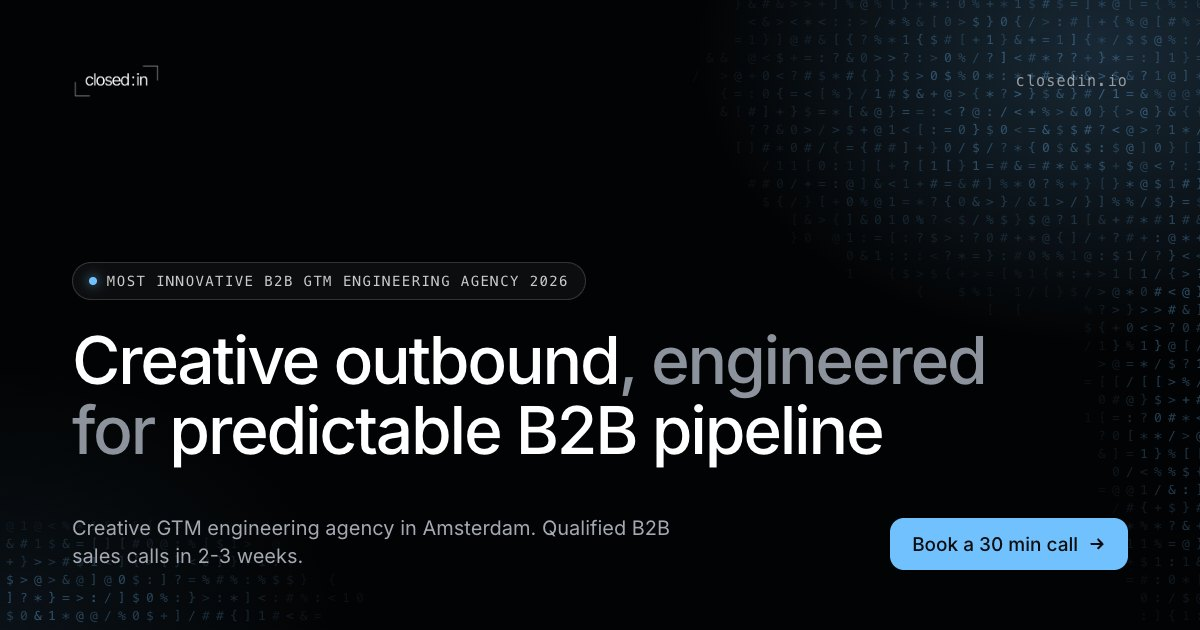
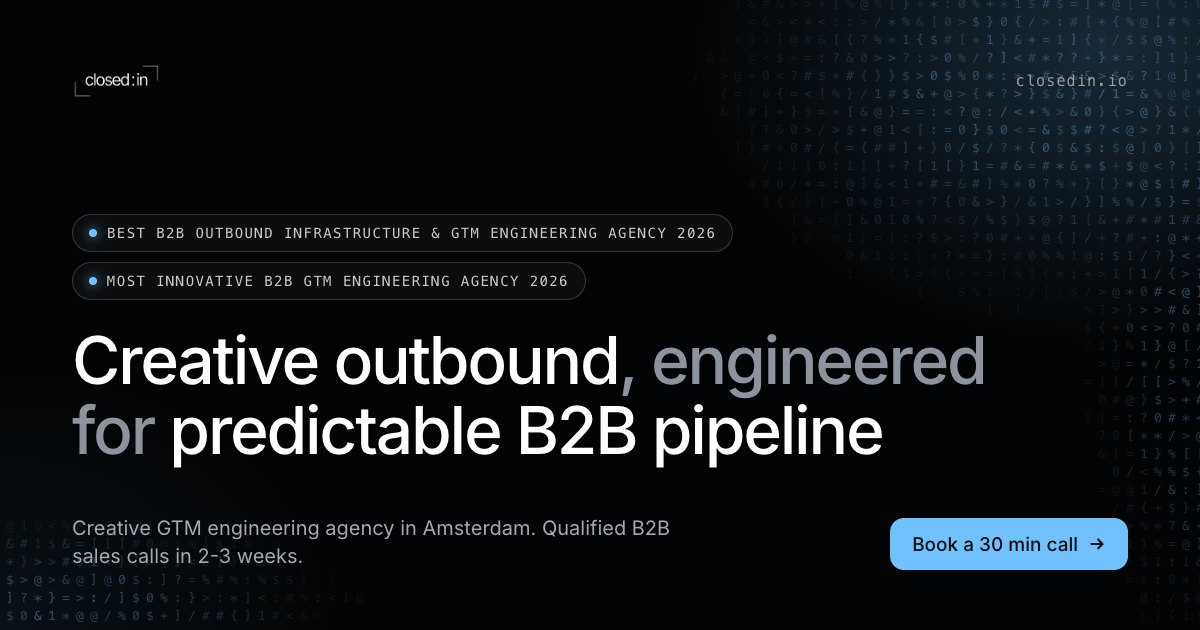
FDI Insider award in the meta description, share image and agencies post (#14)
- Homepage meta description and og:description now lead with the FDI Insider title
  (Best B2B Outbound Infrastructure & GTM Engineering Agency 2026): it carries the
  "B2B outbound" and "GTM engineering" search terms. 157 characters.
- Homepage share image: two award pills, FDI on top, like the hero.
  og.html takes an optional second eyebrow (eyebrow2).
- Agencies post (best GTM engineering agencies NL): an Awards line in the closed:in
  profile, both awards linked to the issuer pages; dateModified 2026-11-10.
- sitemap.xml rebuilt (lastmod from git after the footer change in #13).

Changed region(s): [[0.0617, 0.3317, 0.6167, 0.3921]]

diff --git a/case-study-showcase/blog/best-gtm-engineering-agencies-netherlands.html b/case-study-showcase/blog/best-gtm-engineering-agencies-netherlands.html
@@ -28,7 +28,7 @@
     <meta name="twitter:card" content="summary_large_image">
     <meta name="twitter:image" content="https://www.closedin.io/assets/img/og/blog-best-gtm-engineering-agencies-netherlands-v1.jpg">
     <script type="application/ld+json">
-    {"@context": "https://schema.org", "@graph": [{"@type": "Article", "headline": "Best GTM engineering agencies in the Netherlands and Benelux (2026)", "description": "Ten GTM engineering, outbound and demand agencies in the Netherlands and Belgium compared on location, Clay partner status, stack, published pricing and who they fit. Written by an Amsterdam agency, with the criteria out in the open.", "image": "https://www.closedin.io/assets/img/og/blog-best-gtm-engineering-agencies-netherlands-v1.jpg", "datePublished": "2026-11-09", "dateModified": "2026-11-09", "inLanguage": "en", "author": {"@type": "Person", "name": "Max Münstermann", "jobTitle": "Founder & Sales Lead", "url": "https://www.closedin.io/team", "sameAs": ["https://www.linkedin.com/in/maxmunstermann"]}, "publisher": {"@type": "Organization", "name": "closed:in", "logo": {"@type": "ImageObject", "url": "https://www.closedin.io/closedin-logo.png"}}, "mainEntityOfPage": "https://www.closedin.io/blog/best-gtm-engineering-agencies-netherlands", "keywords": "gtm engineering agency netherlands, gtm engineering agency amsterdam, clay agency netherlands, outbound agency benelux, best gtm agencies netherlands 2026", "articleSection": "GTM engineering", "wordCount": 4738}, {"@type": "BreadcrumbList", "itemListElement": [{"@type": "ListItem", "position": 1, "name": "Home", "item": "https://www.closedin.io/"}, {"@type": "ListItem", "position": 2, "name": "Blog", "item": "https://www.closedin.io/blog"}, {"@type": "ListItem", "position": 3, "name": "Best GTM engineering agencies in the Netherlands and Benelux (2026)", "item": "https://www.closedin.io/blog/best-gtm-engineering-agencies-netherlands"}]}]}
+    {"@context": "https://schema.org", "@graph": [{"@type": "Article", "headline": "Best GTM engineering agencies in the Netherlands and Benelux (2026)", "description": "Ten GTM engineering, outbound and demand agencies in the Netherlands and Belgium compared on location, Clay partner status, stack, published pricing and who they fit. Written by an Amsterdam agency, with the criteria out in the open.", "image": "https://www.closedin.io/assets/img/og/blog-best-gtm-engineering-agencies-netherlands-v1.jpg", "datePublished": "2026-11-09", "dateModified": "2026-11-10", "inLanguage": "en", "author": {"@type": "Person", "name": "Max Münstermann", "jobTitle": "Founder & Sales Lead", "url": "https://www.closedin.io/team", "sameAs": ["https://www.linkedin.com/in/maxmunstermann"]}, "publisher": {"@type": "Organization", "name": "closed:in", "logo": {"@type": "ImageObject", "url": "https://www.closedin.io/closedin-logo.png"}}, "mainEntityOfPage": "https://www.closedin.io/blog/best-gtm-engineering-agencies-netherlands", "keywords": "gtm engineering agency netherlands, gtm engineering agency amsterdam, clay agency netherlands, outbound agency benelux, best gtm agencies netherlands 2026", "articleSection": "GTM engineering", "wordCount": 4738}, {"@type": "BreadcrumbList", "itemListElement": [{"@type": "ListItem", "position": 1, "name": "Home", "item": "https://www.closedin.io/"}, {"@type": "ListItem", "position": 2, "name": "Blog", "item": "https://www.closedin.io/blog"}, {"@type": "ListItem", "position": 3, "name": "Best GTM engineering agencies in the Netherlands and Benelux (2026)", "item": "https://www.closedin.io/blog/best-gtm-engineering-agencies-netherlands"}]}]}
     </script>
     <link rel="preload" as="font" type="font/woff2" href="/assets/fonts/inter-latin-wght-normal.woff2" crossorigin>
     <link rel="stylesheet" href="/assets/vendor/lenis-1.3.26/lenis.css">
@@ -198,6 +198,8 @@
 <p>Pricing: EUR 4,000 to 8,000 per month depending on ICP complexity, volume, channels and CRM depth. No setup fee, month one invoiced at kickoff, 30 days notice either side. The full breakdown is on the <a href="/pricing">pricing page</a>.</p>
 
 <p>Proof: <a href="/case-study-verzendbazen">Verzendbazen</a>, e-commerce fulfilment, 78 opportunities at a 13.9% reply rate. <a href="/case-study-gen-zero">Gen-Zero</a>, energy and sustainability, 27,455 cold contacts into 142 opportunities in 13 weeks on a custom data engine. <a href="/case-study-jamezz">Jamezz</a>, hospitality SaaS, 81 qualified leads from an ICP that sits in no database. <a href="/case-study-tpn">TPN</a>, AI benchmarking, from 12 replies on the first campaign to 466 interested prospects out of 7,128 after a new signal and a free first step.</p>
+
+<p>Awards: <a href="https://www.fdiinsider.com/award-winner-2026/closedin" target="_blank" rel="noopener">Best B2B Outbound Infrastructure &amp; GTM Engineering Agency, Netherlands 2026</a> (FDI Insider) and <a href="https://www.acquisition-international.com/winners/closedin/" target="_blank" rel="noopener">Most Innovative B2B GTM Engineering Agency 2026</a> (Acquisition International).</p>
 
 <p>Best for: founders and sales leads who want the whole outbound engine run for them, want to see the Clay tables and the copy, and want to own the infrastructure if they leave. Not for: companies that want cold calling, or deals under roughly EUR 5,000 a year where outbound math rarely works.</p>
 

diff --git a/scripts/og/og.html b/scripts/og/og.html
@@ -17,6 +17,7 @@ canvas { position: absolute; inset: 0; }
 .url { font: 400 15px/1 ui-monospace, "SF Mono", Menlo, monospace; letter-spacing: .08em; color: rgba(255, 255, 255, .55); }
 .mid { margin-top: auto; }
 .pill { display: inline-flex; align-items: center; gap: 10px; height: 38px; padding: 0 16px; border: 1px solid rgba(255, 255, 255, .16); border-radius: 999px; background: rgba(255, 255, 255, .04); font: 400 14px/1 ui-monospace, "SF Mono", Menlo, monospace; letter-spacing: .1em; text-transform: uppercase; color: rgba(255, 255, 255, .78); }
+.pills { display: flex; flex-direction: column; align-items: flex-start; gap: 10px; }
 .pill i { width: 8px; height: 8px; border-radius: 50%; background: #72C1FF; box-shadow: 0 0 12px #72C1FF; }
 h1 { margin-top: 26px; max-width: 920px; font-weight: 500; font-size: 66px; line-height: 1.06; letter-spacing: -0.034em; text-wrap: balance; }
 h1 b { font-weight: 500; color: #fff; }
@@ -38,7 +39,7 @@ h1 .g { color: #8d939c; }
 <div class="frame">
   <div class="top"><img class="wm" src="../../case-study-showcase/assets/brand/closedin-wordmark-white.png" alt=""><span class="url">closedin.io</span></div>
   <div class="mid">
-    <span class="pill"><i></i><span id="eyebrow"></span></span>
+    <div class="pills" id="pills"><span class="pill"><i></i><span id="eyebrow"></span></span></div>
     <h1 id="title"></h1>
   </div>
   <div class="bottom"><div id="left"></div><span class="cta" id="cta"></span></div>
@@ -46,6 +47,7 @@ h1 .g { color: #8d939c; }
 <script>
 const D = JSON.parse(decodeURIComponent(location.hash.slice(1) || '{}'));
 document.getElementById('eyebrow').textContent = D.eyebrow || 'GTM engineering agency';
+if (D.eyebrow2) { const s = document.createElement('span'); s.className = 'pill'; s.innerHTML = '<i></i><span></span>'; s.lastChild.textContent = D.eyebrow2; document.getElementById('pills').appendChild(s); }   /* homepage: second award pill, like the hero (10-11-2026) */
 const h = document.getElementById('title'); h.innerHTML = D.title || '';
 const left = document.getElementById('left');
 if (D.stats && D.stats.length) {

diff --git a/case-study-showcase/index.html b/case-study-showcase/index.html
@@ -43,12 +43,12 @@
         gtag('config', 'G-WK7J5NHB0C');
     </script>
     <title>closed:in | Creative GTM Engineering Agency for B2B Outbound</title>
-    <meta name="description" content="Creative GTM engineering agency in Amsterdam, Most Innovative B2B GTM Engineering Agency 2026. Outbound that books qualified B2B sales calls in 2-3 weeks.">
+    <meta name="description" content="Creative GTM engineering agency in Amsterdam, awarded Best B2B Outbound Infrastructure &amp; GTM Engineering Agency 2026. Qualified B2B sales calls in 2-3 weeks.">
     <link rel="canonical" href="https://www.closedin.io/">
     <meta name="robots" content="index, follow">
     <meta property="og:type" content="website">
     <meta property="og:title" content="closed:in | Creative GTM Engineering Agency for B2B Outbound">
-    <meta property="og:description" content="Creative GTM engineering agency in Amsterdam, Most Innovative B2B GTM Engineering Agency 2026. Outbound that books qualified B2B sales calls in 2-3 weeks.">
+    <meta property="og:description" content="Creative GTM engineering agency in Amsterdam, awarded Best B2B Outbound Infrastructure &amp; GTM Engineering Agency 2026. Qualified B2B sales calls in 2-3 weeks.">
     <meta property="og:url" content="https://www.closedin.io/">
     <meta property="og:image" content="https://www.closedin.io/assets/img/og/home-v1.jpg">
     <meta property="og:image:width" content="1200">
